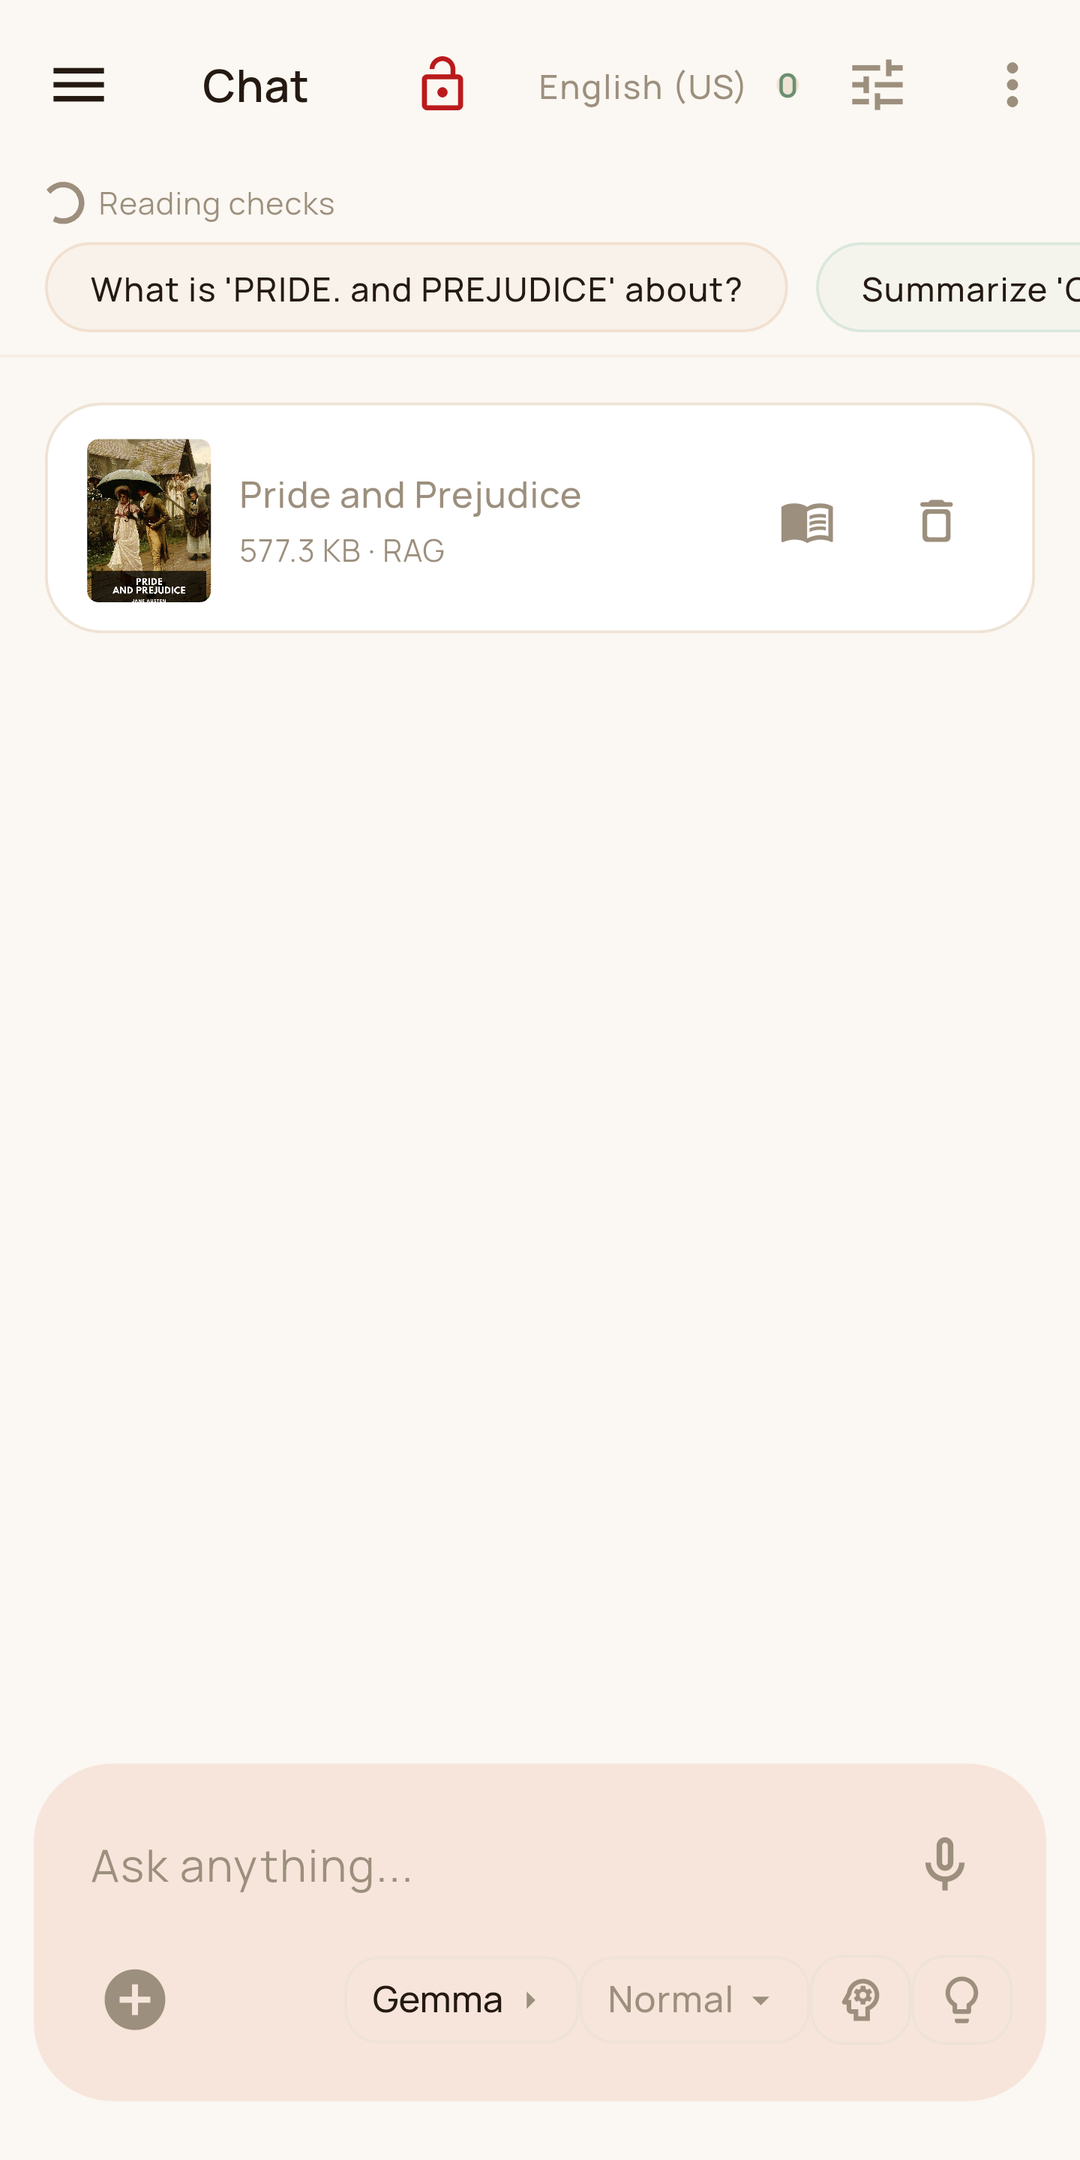
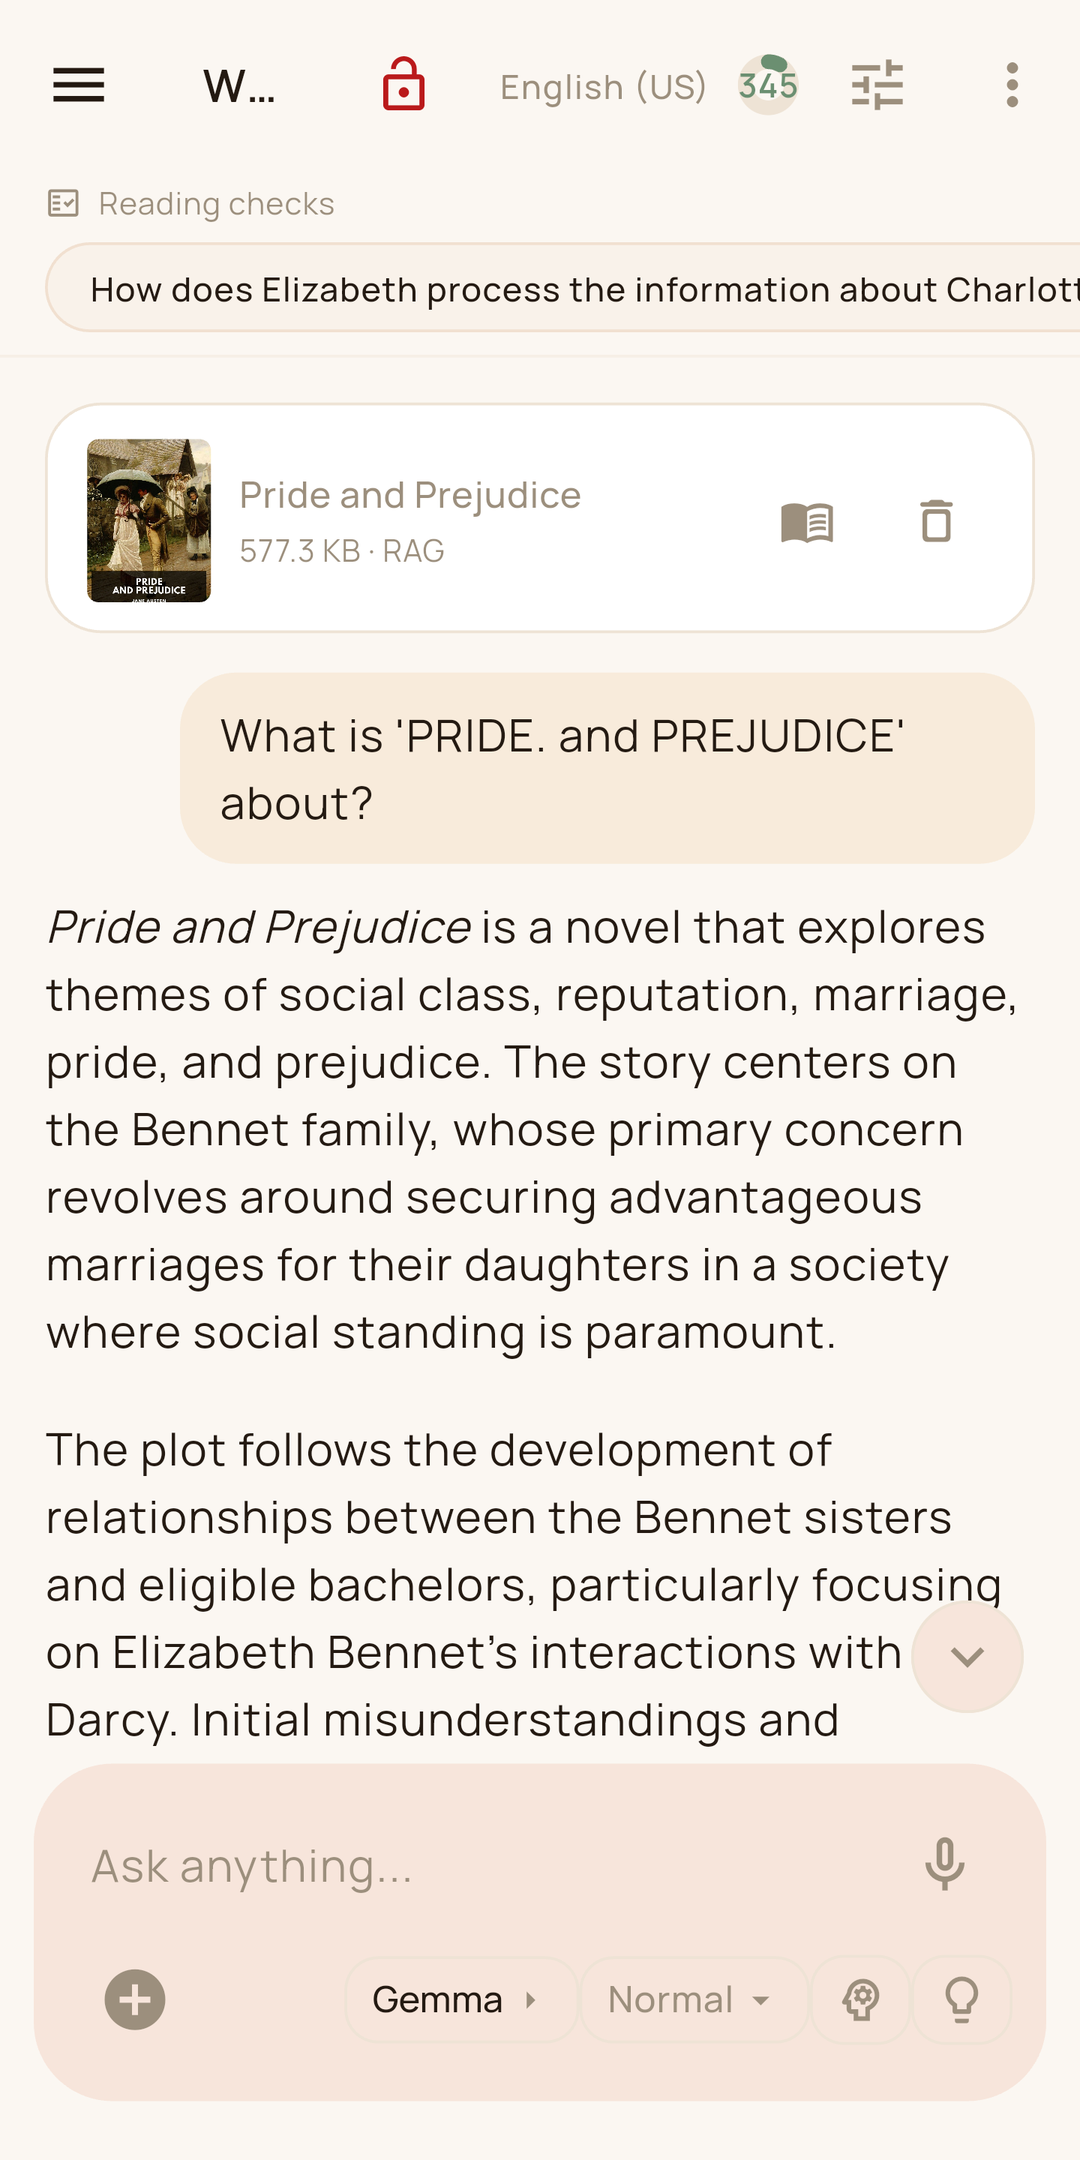
feat(web): Ask AI answer screenshot on the RAG card

diff --git a/index.html b/index.html
@@ -184,7 +184,7 @@
 
     <div class="feature card reveal">
       <div class="feature-media">
-        <img class="zoomable" src="assets/screenshots/RAG01.png" alt="Ask AI with a book attached in Kenosis AI, with suggested questions about it" loading="lazy">
+        <img class="zoomable" src="assets/screenshots/RAG01.png" alt="Ask AI answering what Pride and Prejudice is about, from the attached book" loading="lazy">
       </div>
       <div class="feature-icon">🔎</div>
       <h3>RAG : chat with your documents</h3>
